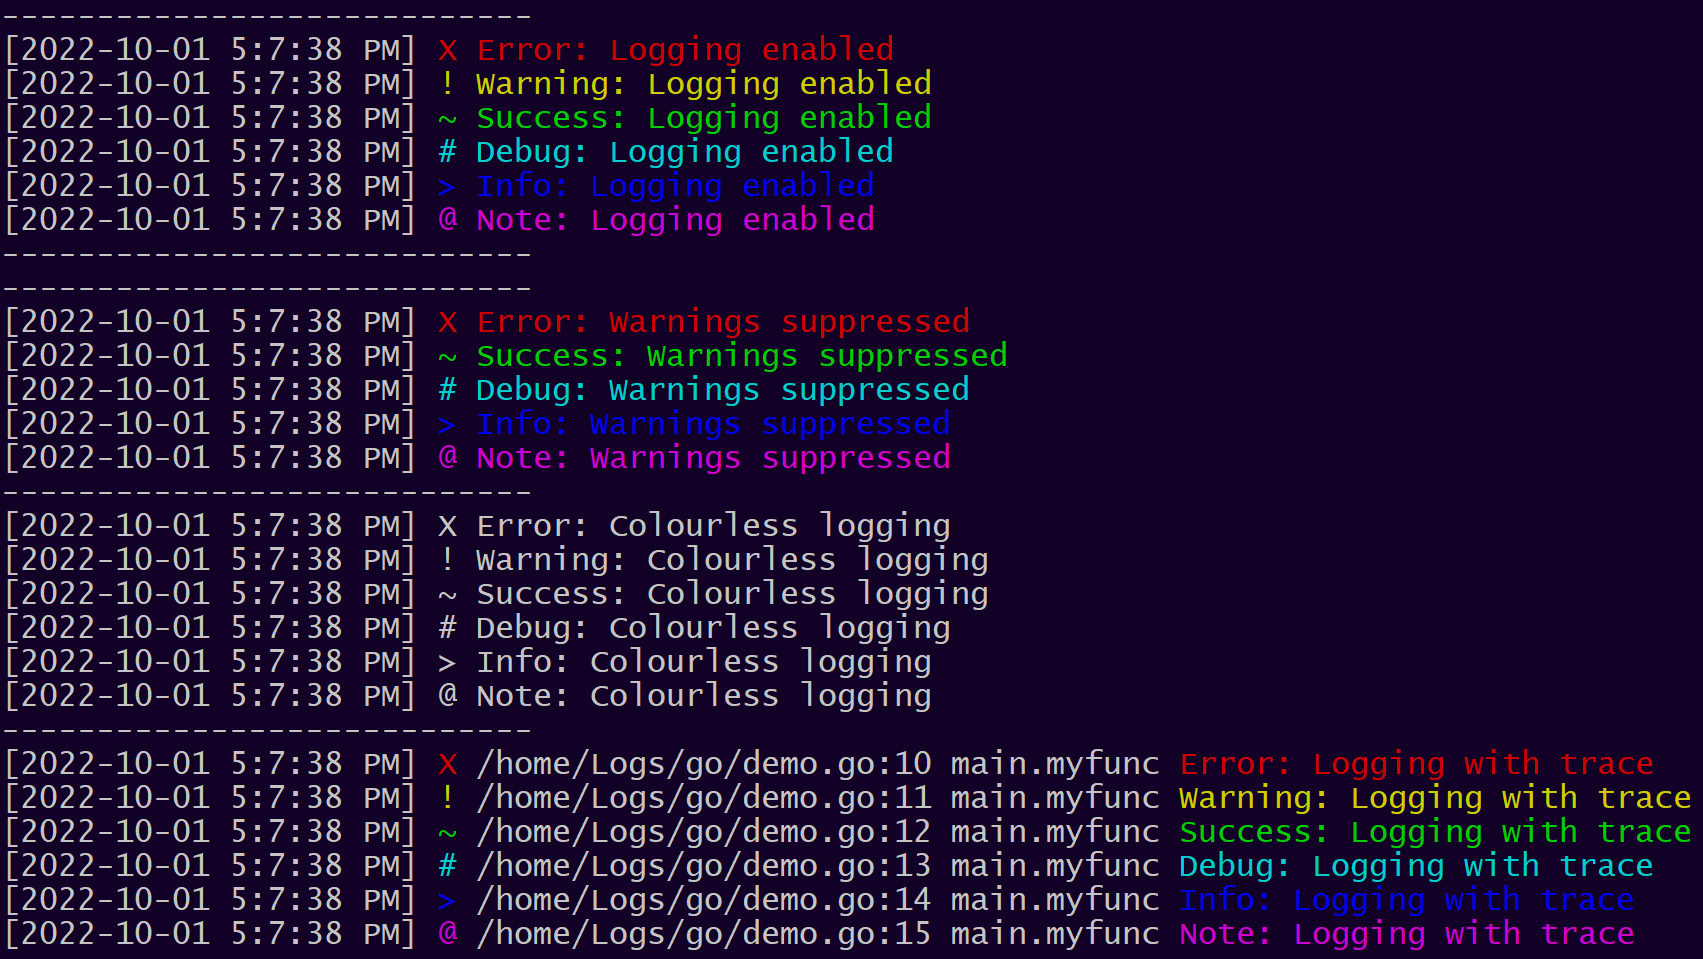
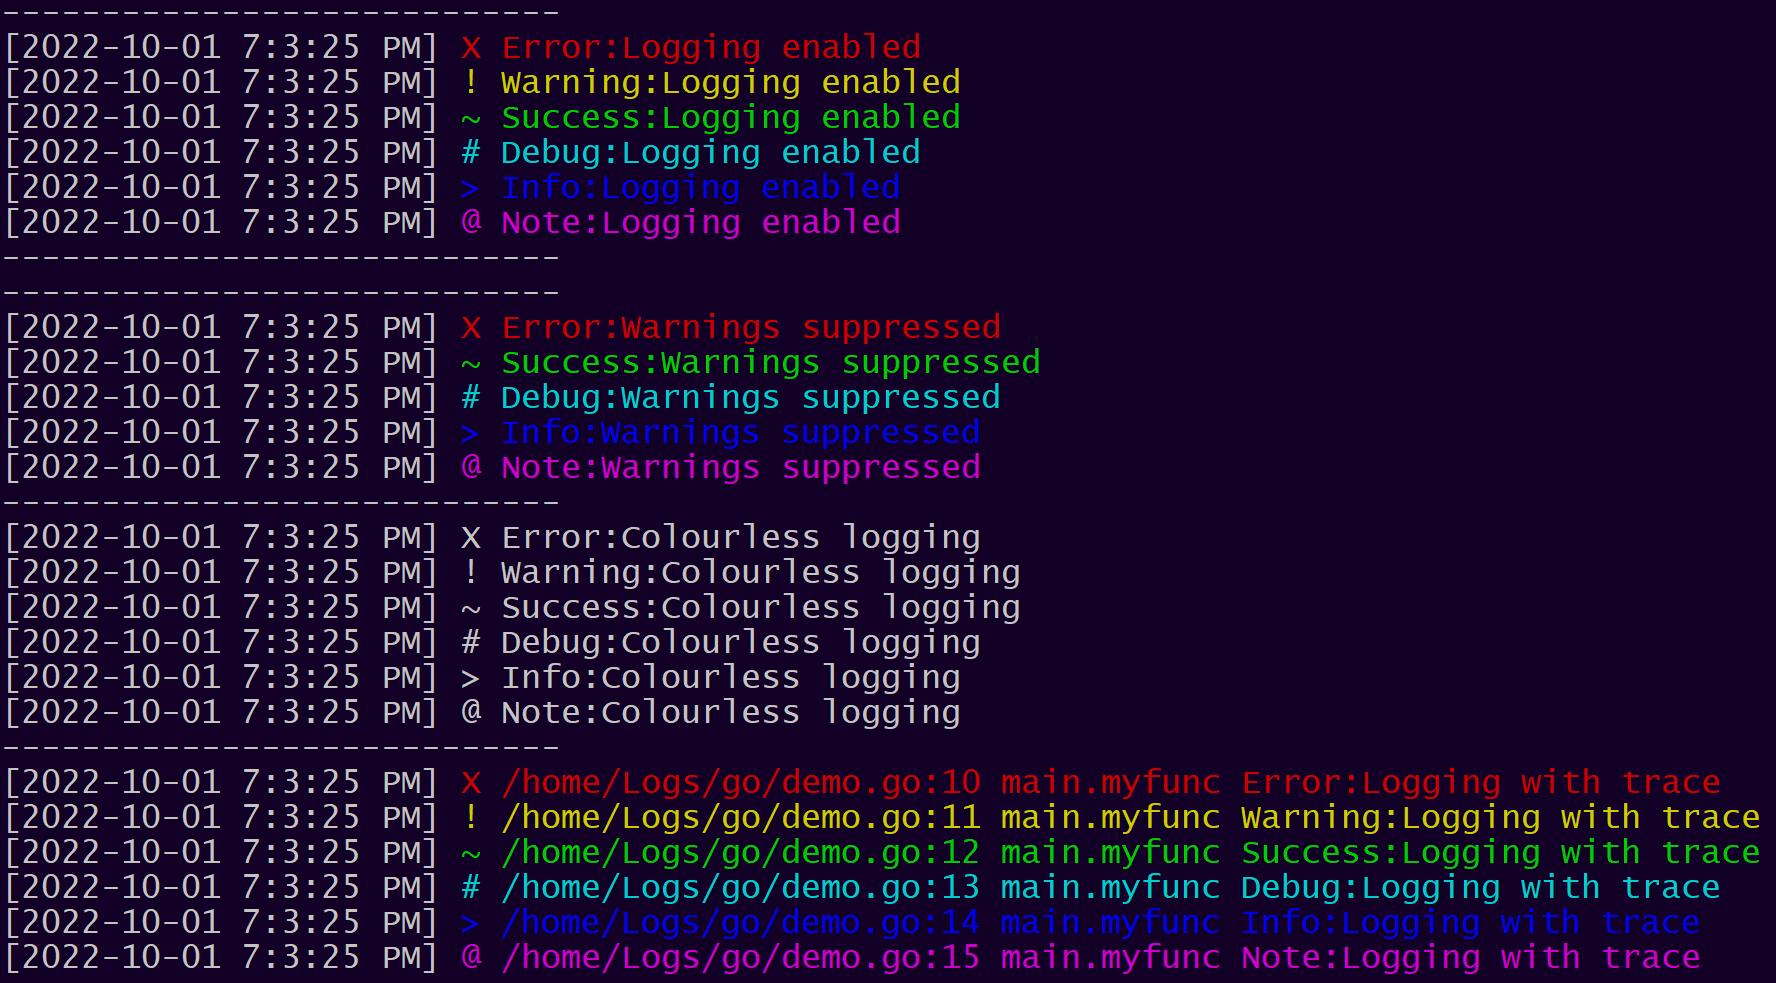
fix colouring

Changed region(s): [[0.0, 0.0, 0.9959, 0.9979]]

diff --git a/go/log/log.go b/go/log/log.go
@@ -14,11 +14,8 @@ func Log(level LogLevel, v ...interface{}) {
 	logElements := []interface{}{}
 
 	timeFormat := strings.TrimSpace(fmt.Sprintf("[%s]", time.Now().Format(TIME_FORMAT)))
-	if timeFormat != "" {
-		logElements = append(logElements, timeFormat)
-	}
 
-	prefixFormat := strings.TrimSpace(level.Colour.WrapText(level.Prefix))
+	prefixFormat := strings.TrimSpace(level.Prefix)
 	if prefixFormat != "" {
 		logElements = append(logElements, prefixFormat)
 	}
@@ -29,13 +26,13 @@ func Log(level LogLevel, v ...interface{}) {
 		logElements = append(logElements, traceFormat)
 	}
 
-	messageFormat := strings.TrimSpace(level.Colour.WrapText(v...))
+	messageFormat := strings.TrimSpace(fmt.Sprint(v...))
 	if messageFormat != "" {
 		logElements = append(logElements, messageFormat)
 	}
 
 	if !level.Suppressed {
-		fmt.Fprintln(level.File, logElements...)
+		fmt.Fprintln(level.File, timeFormat, level.Colour.WrapText(logElements...))
 	}
 }
 
